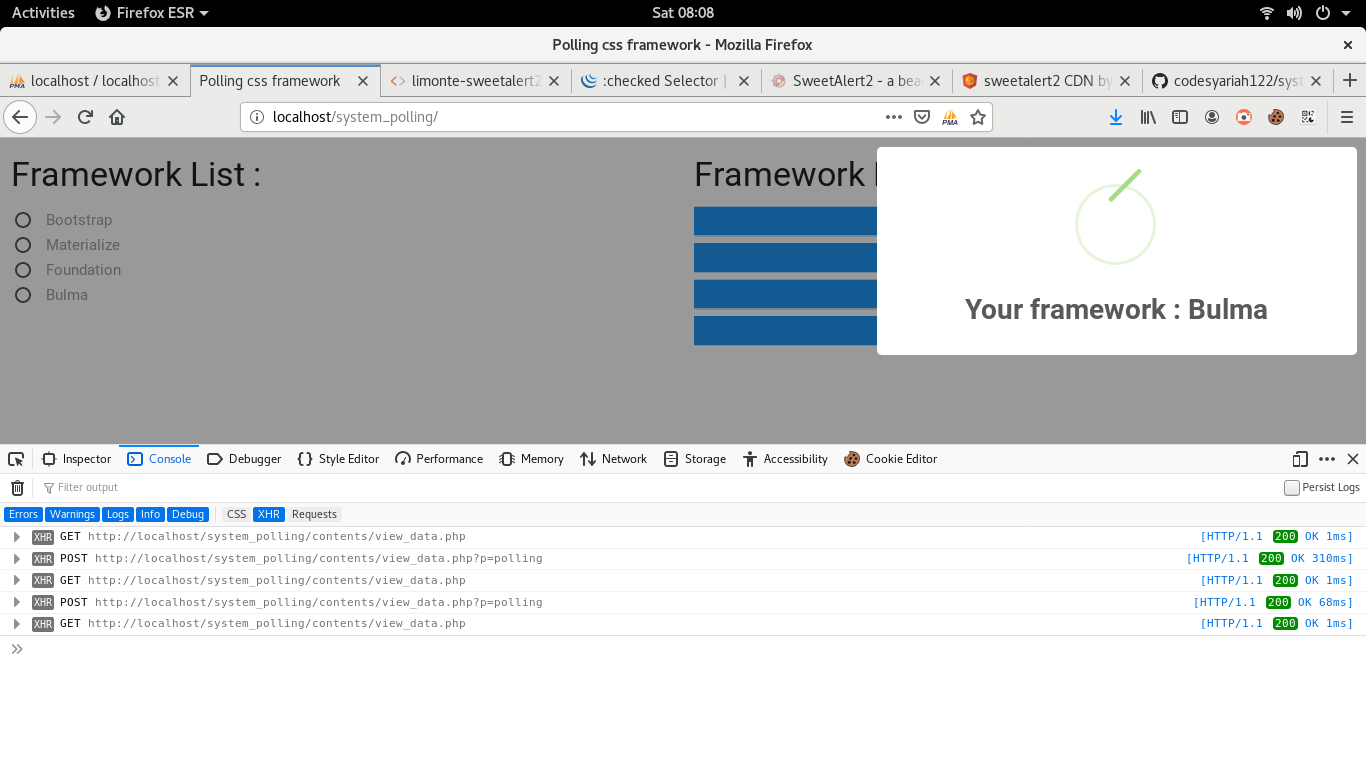
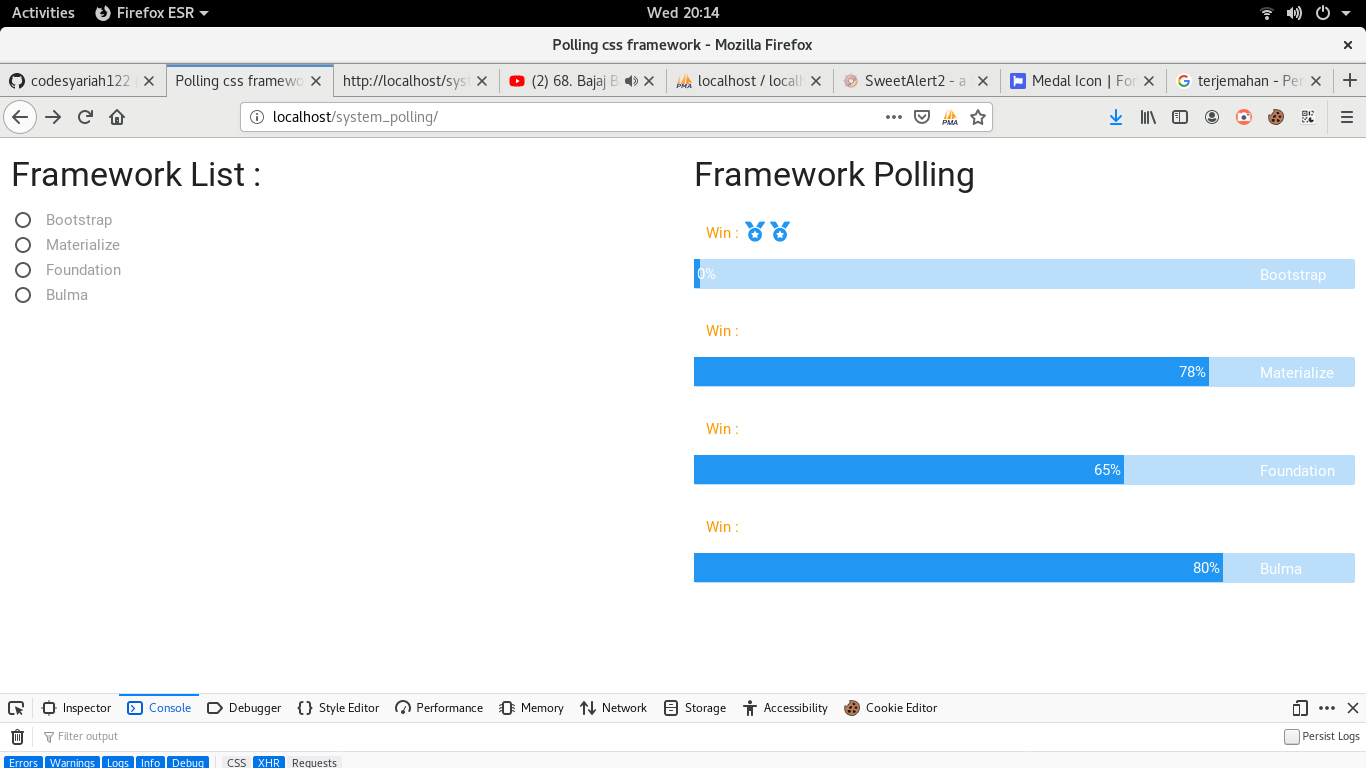
puji new update

diff --git a/assets/MyJs.js b/assets/MyJs.js
@@ -1,7 +1,29 @@
 $(document).ready(function(){
+
 	$('#view-data').hide().load('contents/view_data.php').fadeIn(1000);
+
 	$('input[type=radio]').on("click", function(e){
 		const framework = $('input[name=framework]:checked').val();
+
+		// alert(framework);
+
+		switch(framework){
+			case "Bootstrap":
+			icon = 'bootstrap.png';
+			break;
+			case "Materialize":
+			icon = 'materialize.png'
+			break;
+			case "Foundation":
+			icon = 'foundation.png';
+			break;
+			case "Bulma":
+			icon = 'bulma.png';
+			break;
+		}
+
+		const value = $('#progress').attr('aria-valuenow');
+
 
 		if(framework){
 			$.ajax({
@@ -10,15 +32,17 @@ $(document).ready(function(){
 				data: 'framework='+framework,
 				success: function(response){
 				 	if(response){
-				 		const value = $('#progress').val();
 					 	$('#view-data').load('contents/view_data.php').fadeIn(1000);
+
 						$('input[type=radio]').prop("checked", false);
 						swal.fire({
-							position: 'bottom-end',
-							icon: 'success',
-							title: 'You framework : '+response,
-							showConfirmButton: false, 
-							timer: 1500
+						  title: framework,
+						  text: 'Your framework choice : '+framework,
+						  imageUrl: location.href+'/assets/images/'+icon,
+						  imageWidth: 150,
+						  imageHeight: 130,
+						  imageAlt: framework,
+						  timer: 2000
 						});
 					}else{
 						swal.fire("Nothing framework selected");
@@ -29,5 +53,45 @@ $(document).ready(function(){
 			})
 		}
 
-	})
-})
+		if(value >= 99){
+		$('#view-data').hide().load('contents/view_data.php').fadeIn(1000);
+			$.ajax({
+				url: 'contents/view_data.php?p=reset',
+				type: 'post',
+				data: 'framework='+framework,
+				success: function(response){
+					if(response){
+							Swal.fire({
+							  title: framework+' is Winner <i class="fas fa-medal"></i>',
+							  text: framework+" has 100%",
+							  imageUrl: location.href+'/assets/images/'+icon,
+							  imageWidth: 150,
+							  imageHeight: 130,
+							  imageAlt: framework,	
+							  showCancelButton: false,
+							  confirmButtonColor: '#3085d6',
+							  cancelButtonColor: '#d33',
+							  confirmButtonText: 'Yeahh, next polling again!'
+							}).then((result) => {
+							  if (result.value) {
+							    Swal.fire(
+							      'Ok !',
+							      'See you next Polling',
+							      location.href+'/assets/images/'+icon,
+								  '150',
+								  '130',
+								  framework,
+							    );
+							    setTimeout(function(){
+							    	$('#view-data').load('contents/view_data.php').fadeIn(1000);
+							    }, 1500);
+							  }
+							})
+						}
+					}
+			});
+		}
+
+	});
+});
+

diff --git a/contents/view_data.php b/contents/view_data.php
@@ -1,20 +1,30 @@
 <?php 
 require_once '../functions.php';
-
+$medal = '<i class="fas fa-fw fa-lg fa-medal blue-text"></i>';
 if(@$_GET['p'] == 'polling'):
 	if(polling($_POST, 'framework') > 0):
 		echo @$_POST['framework'];
 	endif;
+elseif(@$_GET['p'] == 'reset'):
+	resetPolling(@$_POST);
+	echo @$_POST['framework'];
 else:
 $framework = framework("SELECT * FROM `framework`");
 $framework = json_decode($framework, true); 
-// var_dump($framework); die;
+//var_dump($framework); die;
 ?>
 
 	<div class="col s6">
 		<h4>Framework Polling</h4>
-	<?php for($i=0; $i <= count($framework[0]); $i++): ?>
-		<div class="tootltipped progress blue lighten-4" data-position="left" data-tooltip="I am a tooltip"></div><span><?=$framework[$i]['framework']?></span>
+	<?php for($i=0; $i <= count($framework[0])-1; $i++): ?>
+	<div class="col s5">
+		<p class="orange-text">Win : <?php for($j=1; $j <= $framework[$i]['win']; $j++): echo $medal; endfor;?> </p>
+
+	</div>
+		<div class="tootltipped progress blue lighten-4" data-position="left" data-tooltip="I am a tooltip"></div>
+		<span id="framework" data-name="<?=$framework[$i]['framework']?>">
+			<?=$framework[$i]['framework']?>	
+		</span>
 		<div id="progress" class="determinate blue"  aria-valuenow="<?=$framework[$i]['value']?>" aria-valuemin="0" aria-valuemax="100" value="<?=$framework[$i]['value']?>" style="width: <?=$framework[$i]['value']?>%"><?=$framework[$i]['value']?>%
 		</div>
 	<?php endfor;?>

diff --git a/contents/polling.php b/contents/polling.php
@@ -1,25 +1,16 @@
 <?php 
 $framework = json_decode(framework("SELECT * FROM `framework`"));
+// var_dump($framework); 
+// echo $framework[0]->value."<br/><br/>";
+// die;
 ?>
 
 <div class="row">
-<?php 
-if(isset($_GET['p'])):
-	$data=$_GET['p']; 
-	if($_GET['p'] === $data):
-		$frameworkdata = framework("SELECT * FROM `framework` WHERE `framework` = '$data'");
-		$frameworkdata = json_decode($frameworkdata, true);
-		// var_dump($frameworkdata); die;
-?>
-
-<div class="card-panel teal lighten-2">Anda baru saja memberikan polling untuk framework <b><font color="blue">
-	<?=$frameworkdata[0]['framework']?></font></b>
-</div>
-<?php endif;endif;?>
 	<div class="col s6">
 		<h4>Framework List : </h4>
 			<ul>
 			<?php foreach($framework as $f): ?>
+
 				<li>
 					<input class="polling-input with-gap" name="framework" value="<?=$f->framework?>" type="radio" id="<?=$f->framework?>">
 					<label for="<?=$f->framework?>"><?=$f->framework?></label>

diff --git a/index.php b/index.php
@@ -8,6 +8,7 @@
       <link rel="stylesheet" href="https://cdnjs.cloudflare.com/ajax/libs/materialize/0.100.2/css/materialize.min.css">
       <link rel="stylesheet" type="text/css" href="assets/style.css">
       <link rel="stylesheet" type="text/css" href="assets/package/dist/sweetalert2.min.css">
+      <link rel="stylesheet" type="text/css" href="https://cdnjs.cloudflare.com/ajax/libs/font-awesome/5.13.1/css/all.min.css">
       <!--Let browser know website is optimized for mobile-->
       <meta name="viewport" content="width=device-width, initial-scale=1.0"/>
 

diff --git a/functions.php b/functions.php
@@ -54,3 +54,15 @@ function polling($data, $table){
 	$stmt->execute();
 	return $stmt->rowCount();
 }
+
+function resetPolling($data){
+	$framework = @$data['framework'];
+
+	$dbh = connect();
+	$sql = "UPDATE `framework` SET value = 0/value, win = win+1 WHERE `framework` = '$framework'";
+	$stmt = $dbh->prepare($sql);
+	$stmt->bindParam(':value', $framework);
+	$stmt->bindParam(':total', $framework);
+	$stmt->execute();
+	return $stmt->rowCount();
+}
